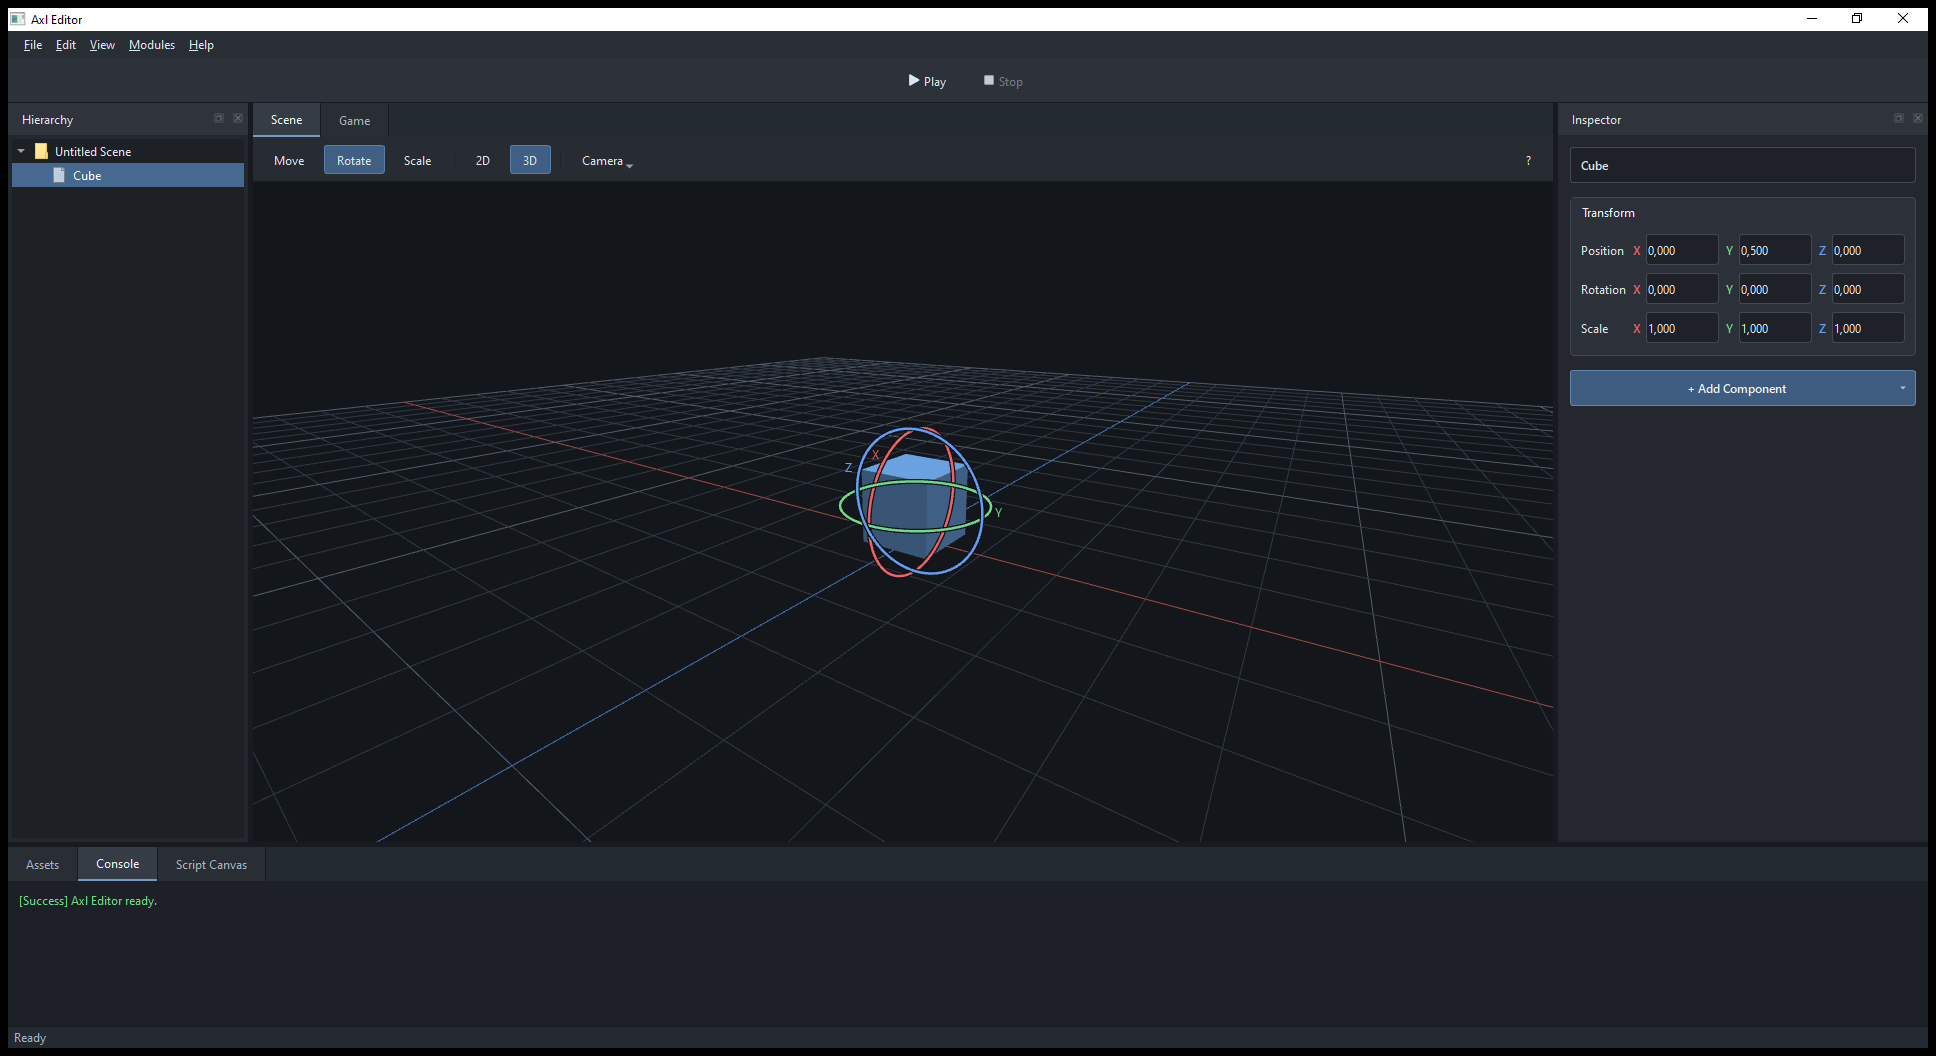
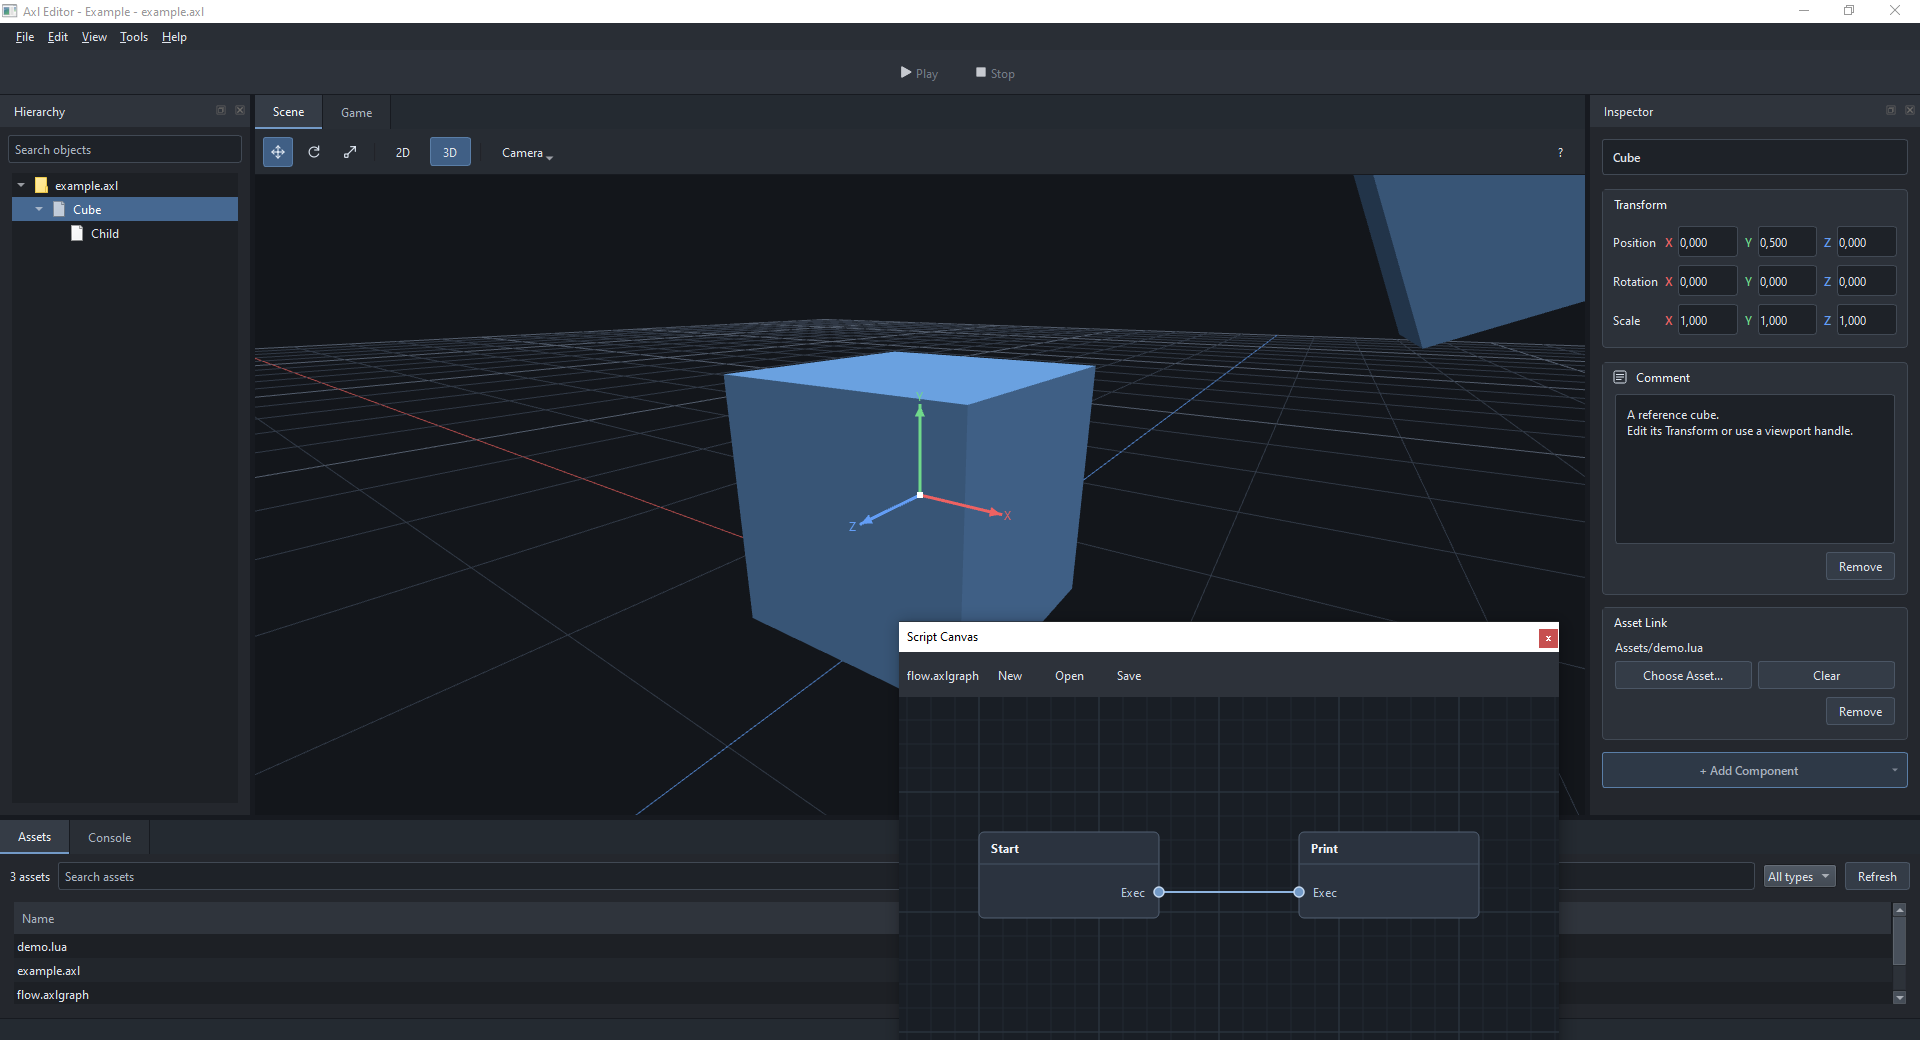
Make Script Canvas float by default and refresh editor screenshot

diff --git a/tests/EditorBoundaryTests.cpp b/tests/EditorBoundaryTests.cpp
@@ -3,11 +3,13 @@
 #include "Tools/Console/EditorConsole.h"
 #include "Tools/Console/ConsoleTool.h"
 #include "Tools/ScriptCanvas/ScriptCanvasTool.h"
+#include "Tools/ScriptCanvas/ScriptCanvasView.h"
 #include "Editor/Qt/IEditorViewport.h"
 #include "Editor/Qt/InspectorProperties.h"
 #include "Reference/Scene/ReferenceSceneProvider.h"
 #include "Reference/Qt/CommentSection.h"
 #include <QAction>
+#include <QAbstractButton>
 #include <QDoubleSpinBox>
 #include <QDockWidget>
 #include <QGroupBox>
@@ -237,6 +239,61 @@ private slots:
         QCOMPARE(trace.destroyed, 2);
         QCOMPARE(trace.calls, QStringList({"Initialize FirstTool", "Initialize SecondTool",
             "Shutdown SecondTool", "Shutdown FirstTool"}));
+    }
+
+    void scriptCanvasFloatsByDefaultCanDockAndDetachAndRestoresLayout()
+    {
+        ForeignScene scene;
+        EmptyAssets assets;
+        {
+            EditorWindow window(scene, assets, nullptr, nullptr, TestTools());
+            auto* dock = window.findChild<QDockWidget*>("ScriptCanvasDock");
+            auto* assetsDock = window.findChild<QDockWidget*>("AssetsDock");
+            QVERIFY(dock->isFloating());
+            QVERIFY(!window.tabifiedDockWidgets(assetsDock).contains(dock));
+            window.show();
+            QVERIFY(QTest::qWaitForWindowExposed(&window));
+            window.findChild<QAction*>("OpenScriptCanvasAction")->trigger();
+            QTRY_VERIFY(dock->isVisible());
+            QCOMPARE(dock->window(), static_cast<QWidget*>(dock));
+            auto* view = dynamic_cast<ScriptCanvasView*>(window.findChild<QGraphicsView*>("ScriptCanvasView"));
+            QVERIFY(view);
+            view->EditGraph("Add node", [](auto& graph) { graph.AddNode(ScriptGraph::NodeType::Start, {20, 30}); });
+            dock->activateWindow(); view->setFocus();
+            QTRY_VERIFY(view->hasFocus());
+            QTest::keyClick(view, Qt::Key_Z, Qt::ControlModifier);
+            QTRY_VERIFY(view->GraphData().Nodes().empty());
+            window.findChild<QAction*>("RedoAction")->trigger();
+            QCOMPARE(view->GraphData().Nodes().size(), std::size_t{1});
+            dock->setFloating(false);
+            window.tabifyDockWidget(assetsDock, dock);
+            dock->show(); dock->raise(); window.activateWindow();
+            QVERIFY(QTest::qWaitForWindowActive(&window));
+            QTRY_VERIFY(!dock->titleBarWidget());
+            auto* floatButton = dock->findChild<QAbstractButton*>("qt_dockwidget_floatbutton");
+            QVERIFY(floatButton);
+            QTRY_VERIFY(floatButton->isVisible());
+            QTest::mouseClick(floatButton, Qt::LeftButton);
+            QTRY_VERIFY(dock->isFloating());
+            QCOMPARE(view->GraphData().Nodes().size(), std::size_t{1});
+            window.findChild<QAction*>("SaveLayoutAction")->trigger();
+        }
+        {
+            EditorWindow window(scene, assets, nullptr, nullptr, TestTools());
+            auto* dock = window.findChild<QDockWidget*>("ScriptCanvasDock");
+            QVERIFY(dock->isFloating()); // A detached window survives restart.
+            dock->setFloating(false);
+            window.tabifyDockWidget(window.findChild<QDockWidget*>("AssetsDock"), dock);
+            window.findChild<QAction*>("SaveLayoutAction")->trigger();
+        }
+        {
+            EditorWindow window(scene, assets, nullptr, nullptr, TestTools());
+            auto* dock = window.findChild<QDockWidget*>("ScriptCanvasDock");
+            QVERIFY(!dock->isFloating()); // An explicit docking choice is also restored.
+            QVERIFY(!dock->titleBarWidget());
+            window.findChild<QAction*>("ResetLayoutAction")->trigger();
+            QVERIFY(dock->isFloating());
+        }
     }
 
     void initializationFailureUnwindsToolsWithLiveContext()

diff --git a/src/Tools/ScriptCanvas/ScriptCanvasTool.cpp b/src/Tools/ScriptCanvas/ScriptCanvasTool.cpp
@@ -8,6 +8,9 @@ void ScriptCanvasTool::Initialize(EditorContext& context)
 {
     if (dock_) return;
     dock_ = new QDockWidget("Script Canvas");
+    dock_->setFeatures(QDockWidget::DockWidgetClosable | QDockWidget::DockWidgetMovable | QDockWidget::DockWidgetFloatable);
+    dock_->setAllowedAreas(Qt::AllDockWidgetAreas);
+    dock_->setProperty("keepDockTitleBar", true);
     auto* view = new ScriptCanvasView;
     auto* panel = new QWidget; auto* layout = new QVBoxLayout(panel);
     layout->setContentsMargins(0, 0, 0, 0); layout->setSpacing(0);
@@ -15,6 +18,9 @@ void ScriptCanvasTool::Initialize(EditorContext& context)
     auto* title = new QLabel(toolbar); toolbar->addWidget(title);
     layout->addWidget(toolbar); layout->addWidget(view, 1); dock_->setWidget(panel);
     if (!context.RegisterDock("ScriptCanvasDock", dock_.data(), Qt::BottomDockWidgetArea)) { Shutdown(); return; }
+    dock_->hide();
+    dock_->setFloating(true);
+    dock_->resize(900, 600);
     document_ = new GraphDocument(*view, context, *title);
     context.RegisterService<GraphDocument>(*document_);
     QObject::connect(document_, &QObject::destroyed, panel, [&context] {
@@ -24,7 +30,6 @@ void ScriptCanvasTool::Initialize(EditorContext& context)
     QObject::connect(fresh, &QAction::triggered, document_, [doc = document_.data()] { doc->New(); });
     QObject::connect(load, &QAction::triggered, document_, [doc = document_.data()] { doc->OpenDialog(); });
     QObject::connect(save, &QAction::triggered, document_, [doc = document_.data()] { doc->Save(); });
-    dock_->hide();
     auto* open = new QAction("Script Canvas", dock_.data());
     open->setObjectName("OpenScriptCanvasAction");
     QObject::connect(open, &QAction::triggered, dock_.data(), [dock = dock_.data(), view] {

diff --git a/src/Editor/Qt/EditorWindow.cpp b/src/Editor/Qt/EditorWindow.cpp
@@ -199,7 +199,7 @@ EditorWindow::EditorWindow(ISceneProvider& scene, IAssetProvider& assets, QWidge
             }));
     }
     for (auto* dock : findChildren<QDockWidget*>(QString(), Qt::FindDirectChildrenOnly))
-        if (dock != assetsDock_ && dockWidgetArea(dock) == Qt::BottomDockWidgetArea)
+        if (dock != assetsDock_ && !dock->isFloating() && dockWidgetArea(dock) == Qt::BottomDockWidgetArea)
             tabifyDockWidget(assetsDock_, dock);
     assetsDock_->raise();
     ApplyDefaultDockSizes();
@@ -333,7 +333,7 @@ void EditorWindow::UpdateBottomDockTitles()
 {
     for (auto* dock : findChildren<QDockWidget*>(QString(), Qt::FindDirectChildrenOnly)) {
         if (!dock) continue;
-        if (!dock->isFloating() && dockWidgetArea(dock) == Qt::BottomDockWidgetArea
+        if (!dock->isFloating() && !dock->property("keepDockTitleBar").toBool() && dockWidgetArea(dock) == Qt::BottomDockWidgetArea
             && !tabifiedDockWidgets(dock).isEmpty()) {
             if (!dock->titleBarWidget()) {
                 auto* title = new QWidget(dock);

diff --git a/tests/ToolLifecycleTests.cpp b/tests/ToolLifecycleTests.cpp
@@ -179,6 +179,9 @@ private slots:
         auto* dock = tool.Dock();
         QVERIFY(dock && dock->isHidden());
         QCOMPARE(dock->objectName(), QString("ScriptCanvasDock"));
+        QVERIFY(dock->isFloating());
+        QVERIFY(dock->features().testFlag(QDockWidget::DockWidgetFloatable));
+        QVERIFY(dock->features().testFlag(QDockWidget::DockWidgetMovable));
         tool.Initialize(host.context);
         QCOMPARE(tool.Dock(), dock);
         QCOMPARE(host.tools->actions().size(), 1);

diff --git a/README.md b/README.md
@@ -4,7 +4,7 @@ A small, extensible editor built with C++17 and Qt Widgets. Axl brings together
 scene selection, an Inspector, a 2D/3D viewport and independent editor tools,
 with replaceable providers for engine-specific data.
 
-![Axl Editor with the reference 3D viewport, rotation gizmo and dockable panels](docs/screenshots/axl-editor.png)
+![Axl Editor with transform tool icons, Inspector component cards and a floating Script Canvas window](docs/screenshots/axl-editor.png)
 
 ## Features
 
@@ -125,6 +125,11 @@ the executable. **View -> Save Layout** and **Reset Layout** are also available.
 
 Open **Tools -> Script Canvas**, then right-click the canvas and choose
 **Add Node -> Start** or **Print**. Nodes can be selected, dragged and deleted.
+With the default layout, Script Canvas opens as a separate floating window.
+Drag its title bar to dock it in the editor; the dock title bar retains its
+undock button so it can be detached again. The saved layout remembers your choice.
+Use **View -> Reset Layout** to restore the floating default if an older layout
+has Script Canvas docked at the bottom.
 Drag an output execution pin to an input pin to create a connection; select a
 connection and press **Delete** to remove it. **Escape** cancels a pending connection.
 
@@ -223,7 +228,7 @@ They do not require an ECS, a Node hierarchy implementation or Qt math types.
   Choose tools in `main.cpp` and move the list into `EditorWindow`. The shell
   initializes them before layout restoration and shuts them down in reverse order
   with the context still alive. Passing an empty list creates a shell without tools.
-  Bottom-area docks are tabified with Assets by their Qt area, regardless of tool name.
+  Non-floating bottom-area docks are tabified with Assets by their Qt area, regardless of tool name.
   The shell logs through `IEditorLog`; ConsoleTool supplies the optional service.
 
 ### Console commands
